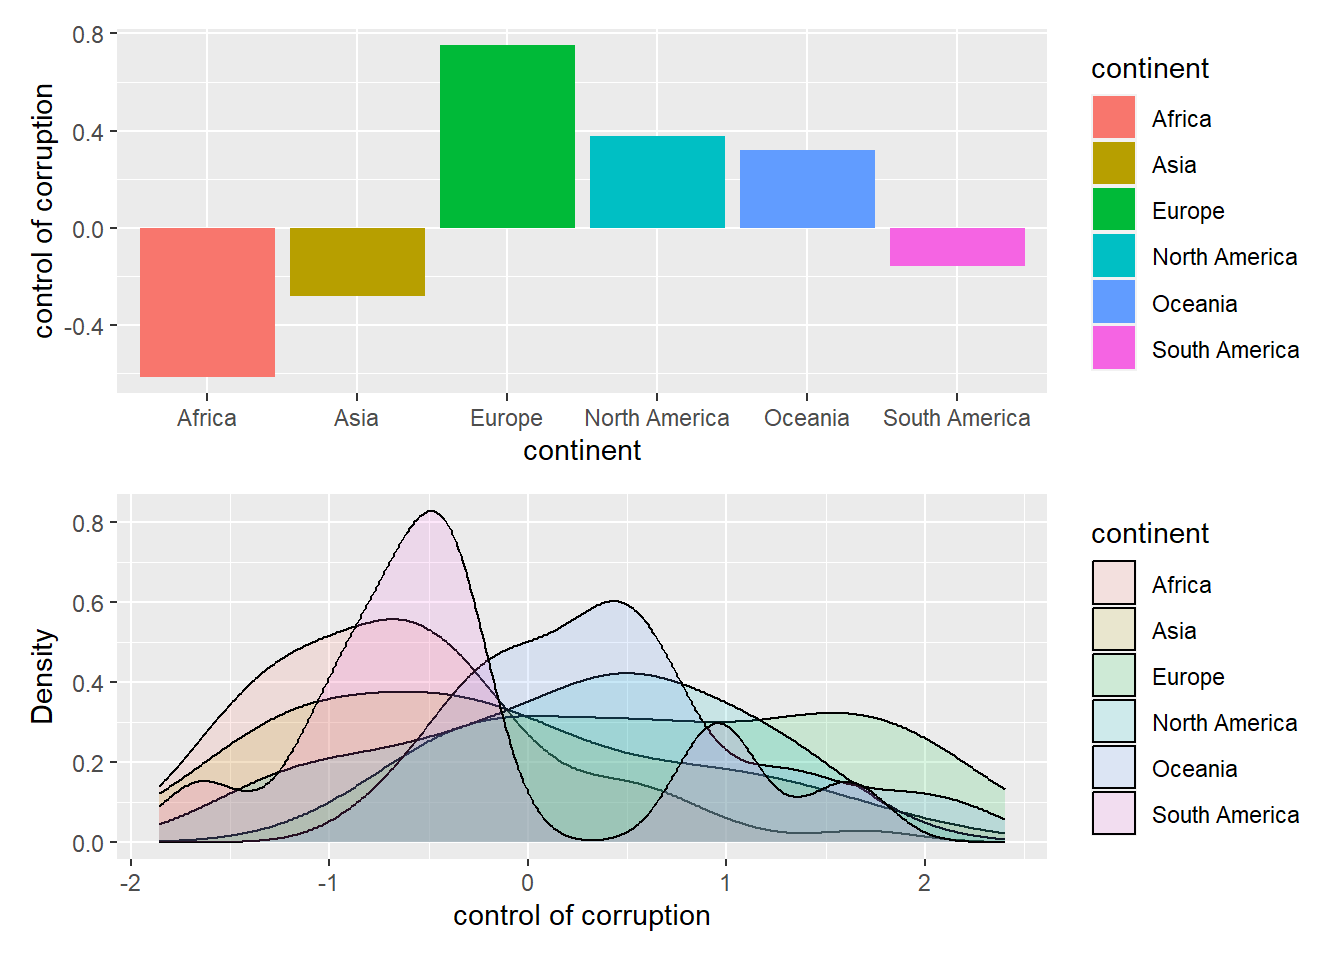
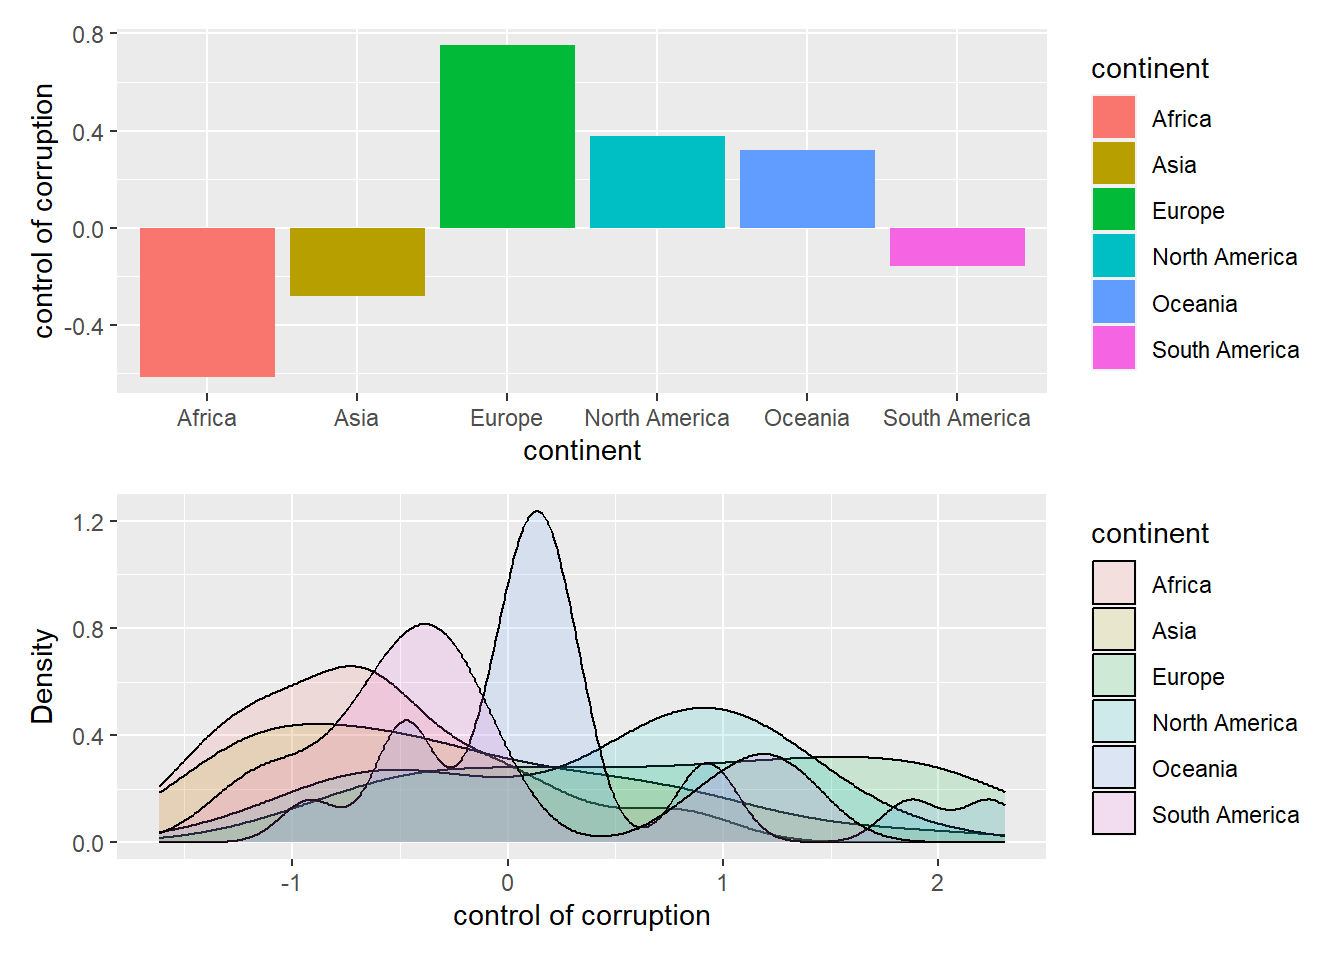
update

diff --git a/project_report.html b/project_report.html
@@ -1986,8 +1986,8 @@ plots.</p>
 
 cpi_density = 
   corruption|&gt;
-  filter(year == 2022) |&gt;
-  group_by(continent)|&gt;
+  group_by(continent,country_name)|&gt;
+  summarize(con_cor = mean(con_cor,na.rm = TRUE))|&gt;
   ggplot(
     aes(
       x = con_cor
@@ -2012,11 +2012,14 @@ control of corruption index, whereas Africa has the lowest one.</p>
   group_by(continent)|&gt;
   summarize(gdp = mean(gdp,na.rm=TRUE))|&gt;
   ggplot(aes(x = continent,y = gdp,fill = continent))+
-  geom_bar(stat=&#39;identity&#39;)
+  geom_bar(stat=&#39;identity&#39;)+
+  labs(
+    y = &#39;GDP&#39;
+  )
 
 gdp_density = corruption|&gt;
-    filter(year == 2022) |&gt;
-  group_by(continent)|&gt;
+  group_by(continent,country_name)|&gt;
+  summarize(gdp = mean(gdp,na.rm = TRUE))|&gt;
   ggplot(
     aes(
       x = gdp
@@ -2024,7 +2027,7 @@ gdp_density = corruption|&gt;
   ) + 
   geom_histogram(aes(fill = continent), alpha = 0.5) + 
   labs(
-    x = &quot;mean gdp&quot;,
+    x = &quot;GDP&quot;,
     y = &quot;Density&quot;
   )
 gdp_continent = mean_gdp/gdp_density
@@ -2032,10 +2035,10 @@ gdp_continent = mean_gdp/gdp_density
 
 gdp_continent</code></pre>
 <p><img src="project_report_files/figure-html/unnamed-chunk-22-1.png" width="672" /></p>
-<p>The upper bar plot shows mean gdp of countries in each continent.The
-lower histogram plot shows the distribution of gdp in each continent. We
-can get that North America has the highest mean gdp, and Africa has the
-lowest mean gdp.</p>
+<p>The upper bar plot shows mean GDP of countries in each continent.The
+lower histogram plot shows the distribution of GDP in each continent. We
+can get that North America has the highest mean GDP, and Africa has the
+lowest mean GDP.</p>
 </div>
 <div id="with-population" class="section level2">
 <h2>With Population</h2>
@@ -2111,8 +2114,9 @@ of missing data are shown below.</p>
   is.na()|&gt; 
   colSums()
 NA_table_1|&gt; 
-    knitr::kable(col.names = c(&quot;Counts of NA&quot;))</code></pre>
-<table>
+    knitr::kable(col.names = c(&quot;Counts of NA&quot;)) |&gt; 
+  kable_styling(&quot;striped&quot;, full_width = TRUE)</code></pre>
+<table class="table table-striped" style="margin-left: auto; margin-right: auto;">
 <thead>
 <tr>
 <th style="text-align:left;">
@@ -2271,8 +2275,9 @@ variable.</p>
 full.model|&gt;
   broom::tidy()|&gt;
   dplyr::select(term, estimate, p.value)|&gt;
-  knitr::kable(caption =&quot;Estimate and P-value for full model&quot;)</code></pre>
-<table>
+  knitr::kable(caption =&quot;Estimate and P-value for full model&quot;) |&gt; 
+  kable_styling(&quot;striped&quot;, full_width = TRUE)</code></pre>
+<table class="table table-striped" style="margin-left: auto; margin-right: auto;">
 <caption>
 Estimate and P-value for full model
 </caption>
@@ -2458,8 +2463,9 @@ continentSouth America
 </tbody>
 </table>
 <pre class="r"><code>All.Criteria(full.model)|&gt;
-  knitr::kable(caption = &quot;Criterias for full model&quot;)</code></pre>
-<table>
+  knitr::kable(caption = &quot;Criterias for full model&quot;) |&gt; 
+  kable_styling(&quot;striped&quot;, full_width = TRUE)</code></pre>
+<table class="table table-striped" style="margin-left: auto; margin-right: auto;">
 <caption>
 Criterias for full model
 </caption>
@@ -2522,8 +2528,9 @@ plot(full.model)</code></pre>
 <p><img src="project_report_files/figure-html/unnamed-chunk-30-1.png" width="672" /></p>
 <pre class="r"><code>outliers = which(abs(SR)&gt;t.cutoff)
 outliers|&gt;
-  knitr::kable(caption = &quot;outliers&quot;)</code></pre>
-<table>
+  knitr::kable(caption = &quot;outliers&quot;) |&gt; 
+  kable_styling(&quot;striped&quot;, full_width = TRUE)</code></pre>
+<table class="table table-striped" style="margin-left: auto; margin-right: auto;">
 <caption>
 outliers
 </caption>
@@ -2575,8 +2582,9 @@ x
 
 full.model = lm(con_cor ~ ., data = new.data)
 All.Criteria(full.model)|&gt;
-  knitr::kable(caption =&quot;Estimate and P-value for updated full model&quot;)</code></pre>
-<table>
+  knitr::kable(caption =&quot;Estimate and P-value for updated full model&quot;) |&gt; 
+  kable_styling(&quot;striped&quot;, full_width = TRUE)</code></pre>
+<table class="table table-striped" style="margin-left: auto; margin-right: auto;">
 <caption>
 Estimate and P-value for updated full model
 </caption>
@@ -2635,8 +2643,9 @@ forward.model.AIC = stepAIC(empty.model, scope = list(lower = empty.model, upper
 <pre class="r"><code>backward.model.AIC|&gt;
   broom::tidy()|&gt;
   dplyr::select(term, estimate, p.value)|&gt;
-  knitr::kable(caption =&quot;Estimate and P-value for backward selected model&quot;)</code></pre>
-<table>
+  knitr::kable(caption =&quot;Estimate and P-value for backward selected model&quot;) |&gt; 
+  kable_styling(&quot;striped&quot;, full_width = TRUE)</code></pre>
+<table class="table table-striped" style="margin-left: auto; margin-right: auto;">
 <caption>
 Estimate and P-value for backward selected model
 </caption>
@@ -2789,8 +2798,9 @@ continentSouth America
 </tbody>
 </table>
 <pre class="r"><code>All.Criteria(backward.model.AIC)|&gt;
-  knitr::kable(caption = &quot;Criterias for backward selected selected model&quot;)</code></pre>
-<table>
+  knitr::kable(caption = &quot;Criterias for backward selected selected model&quot;) |&gt; 
+  kable_styling(&quot;striped&quot;, full_width = TRUE)</code></pre>
+<table class="table table-striped" style="margin-left: auto; margin-right: auto;">
 <caption>
 Criterias for backward selected selected model
 </caption>
@@ -2845,8 +2855,9 @@ less dependent on the order of variable removal.</p>
 <pre class="r"><code>forward.model.AIC|&gt;
   broom::tidy()|&gt;
   dplyr::select(term, estimate, p.value)|&gt;
-  knitr::kable(caption =&quot;Estimate and P-value for forward selected model&quot;)</code></pre>
-<table>
+  knitr::kable(caption =&quot;Estimate and P-value for forward selected model&quot;) |&gt; 
+  kable_styling(&quot;striped&quot;, full_width = TRUE)</code></pre>
+<table class="table table-striped" style="margin-left: auto; margin-right: auto;">
 <caption>
 Estimate and P-value for forward selected model
 </caption>
@@ -2955,8 +2966,9 @@ regu_qual
 </tbody>
 </table>
 <pre class="r"><code>All.Criteria(forward.model.AIC)|&gt;
-  knitr::kable(caption = &quot;Criterias for forward selected selected model&quot;)</code></pre>
-<table>
+  knitr::kable(caption = &quot;Criterias for forward selected selected model&quot;) |&gt; 
+  kable_styling(&quot;striped&quot;, full_width = TRUE)</code></pre>
+<table class="table table-striped" style="margin-left: auto; margin-right: auto;">
 <caption>
 Criterias for forward selected selected model
 </caption>
@@ -3019,11 +3031,12 @@ comparsion =
   bind_rows( full_model,forward_model, backward_model)|&gt;
   mutate(model = c(&#39;full&#39;, &#39;forward&#39;, &#39;backward&#39;))|&gt;
   dplyr::select(model, everything())|&gt;
-  knitr::kable(caption = &quot;Comparision of full model, forward and backward selected model&quot;)
+  knitr::kable(caption = &quot;Comparision of full model, forward and backward selected model&quot;) |&gt; 
+  kable_styling(&quot;striped&quot;, full_width = TRUE)
   
   
 comparsion</code></pre>
-<table>
+<table class="table table-striped" style="margin-left: auto; margin-right: auto;">
 <caption>
 Comparision of full model, forward and backward selected model
 </caption>
@@ -3184,9 +3197,15 @@ Overall, there is no significant difference between three models.</p>
 </div>
 <div id="conclusions" class="section level2">
 <h2>Conclusions</h2>
-<p>To sum up, based on all analysis above, there is no significant
-difference between three models. But backward selected model is the most
-optimal model to predict corruption index.</p>
+<p>To sum up, before building a regression model, we except GDP would be
+one of the most significant variable to predict corruption index.
+However, the result shows that there is nearly no correlation between
+GDP and corruption index. Based on analysis above, there is no
+significant differences between the three models. But backward selected
+model is the most optimal model to predict corruption index.It has the
+lowest BIC and AIC, which means this model achieves a better balance
+between fitting the data well and avoiding overfitting comparing to the
+other two models.</p>
 </div>
 </div>
 <div id="discussion" class="section level1">

diff --git a/eda.html b/eda.html
@@ -630,8 +630,8 @@ plots.</p>
 
 cpi_density = 
   corruption|&gt;
-  filter(year == 2022) |&gt;
-  group_by(continent)|&gt;
+  group_by(continent,country_name)|&gt;
+  summarize(con_cor = mean(con_cor,na.rm = TRUE))|&gt;
   ggplot(
     aes(
       x = con_cor
@@ -656,11 +656,14 @@ control of corruption index, whereas Africa has the lowest one.</p>
   group_by(continent)|&gt;
   summarize(gdp = mean(gdp,na.rm=TRUE))|&gt;
   ggplot(aes(x = continent,y = gdp,fill = continent))+
-  geom_bar(stat=&#39;identity&#39;)
+  geom_bar(stat=&#39;identity&#39;)+
+  labs(
+    y = &#39;Mean GDP&#39;
+  )
 
 gdp_density = corruption|&gt;
-    filter(year == 2022) |&gt;
-  group_by(continent)|&gt;
+  group_by(continent,country_name)|&gt;
+  summarize(gdp = mean(gdp,na.rm = TRUE))|&gt;
   ggplot(
     aes(
       x = gdp
@@ -668,7 +671,7 @@ gdp_density = corruption|&gt;
   ) + 
   geom_histogram(aes(fill = continent), alpha = 0.5) + 
   labs(
-    x = &quot;mean gdp&quot;,
+    x = &quot;GDP&quot;,
     y = &quot;Density&quot;
   )
 gdp_continent = mean_gdp/gdp_density
@@ -676,10 +679,10 @@ gdp_continent = mean_gdp/gdp_density
 
 gdp_continent</code></pre>
 <p><img src="eda_files/figure-html/unnamed-chunk-12-1.png" width="672" /></p>
-<p>The upper bar plot shows mean gdp of countries in each continent.The
-lower histogram plot shows the distribution of gdp in each continent. We
-can get that North America has the highest mean gdp, and Africa has the
-lowest mean gdp.</p>
+<p>The upper bar plot shows mean GDP of countries in each continent.The
+lower histogram plot shows the distribution of GDP in each continent. We
+can get that North America has the highest mean GDP, and Africa has the
+lowest mean GDP.</p>
 </div>
 <div id="with-population" class="section level2">
 <h2>With Population</h2>
@@ -702,7 +705,7 @@ lowest mean gdp.</p>
 <p>Based on the boxplot of population distribution among countries in
 each continent, we can read that Asia is the most populated area, and
 populated countries in North America has larger population than those
-countries in Europe. Oceania are the least populated area.</p>
+countries in Europe. Oceania is the least populated area.</p>
 </div>
 <div id="plot---2" class="section level3">
 <h3>Plot - 2</h3>

diff --git a/regression.html b/regression.html
@@ -1019,9 +1019,15 @@ Overall, there is no significant difference between three models.</p>
 </div>
 <div id="conclusions" class="section level2">
 <h2>Conclusions</h2>
-<p>To sum up, based on all analysis above, there is no significant
-difference between three models. But backward selected model is the most
-optimal model to predict corruption index.</p>
+<p>To sum up, before building a regression model, we except GDP would be
+one of the most significant variable to predict corruption index.
+However, the result shows that there is nearly no correlation between
+GDP and corruption index. Based on analysis above, there is no
+significant differences between the three models. But backward selected
+model is the most optimal model to predict corruption index.It has the
+lowest BIC and AIC, which means this model achieves a better balance
+between fitting the data well and avoiding overfitting comparing to the
+other two models.</p>
 </div>
 
 

diff --git a/Data-Manipulation-and-cleaning.html b/Data-Manipulation-and-cleaning.html
@@ -791,7 +791,6 @@ class="math inline">\(10^7\)</span>)</li>
 </ul>
 <p>For the dataset we used in regression section, we take the average
 value of the numeric variables from 2020-2022.</p>
-<link rel="stylesheet" type="text/css" href="table.css">
 <div class="scrollable-table">
 <table class="table table-striped" style="width: auto !important; margin-left: auto; margin-right: auto;">
 <thead>

diff --git a/styles.css b/styles.css
@@ -19,3 +19,8 @@ h4 {
   color: #ffcc99; /* 最浅的橘色 */
 }
 
+.scrollable-table {
+    height: 500px; /* 或您想要的任何高度 */
+    overflow-y: scroll;
+    display: block;
+}
